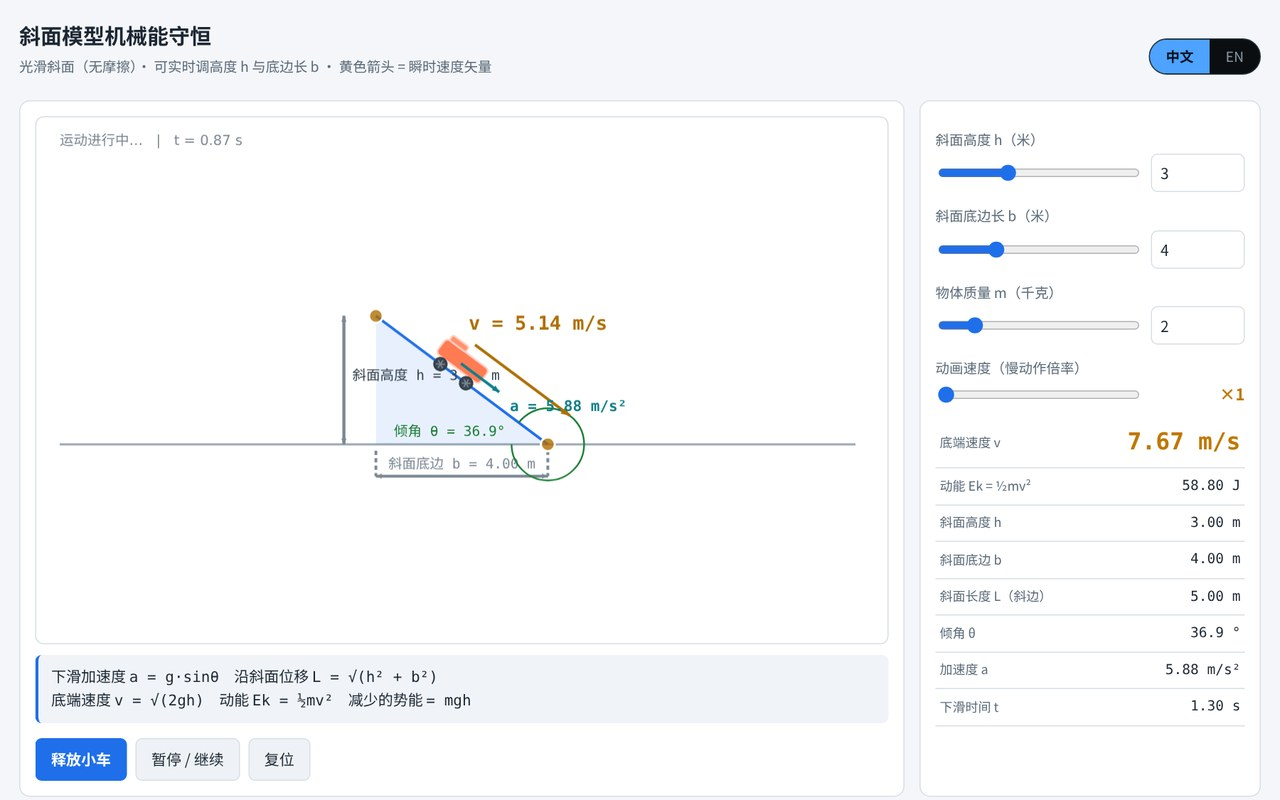
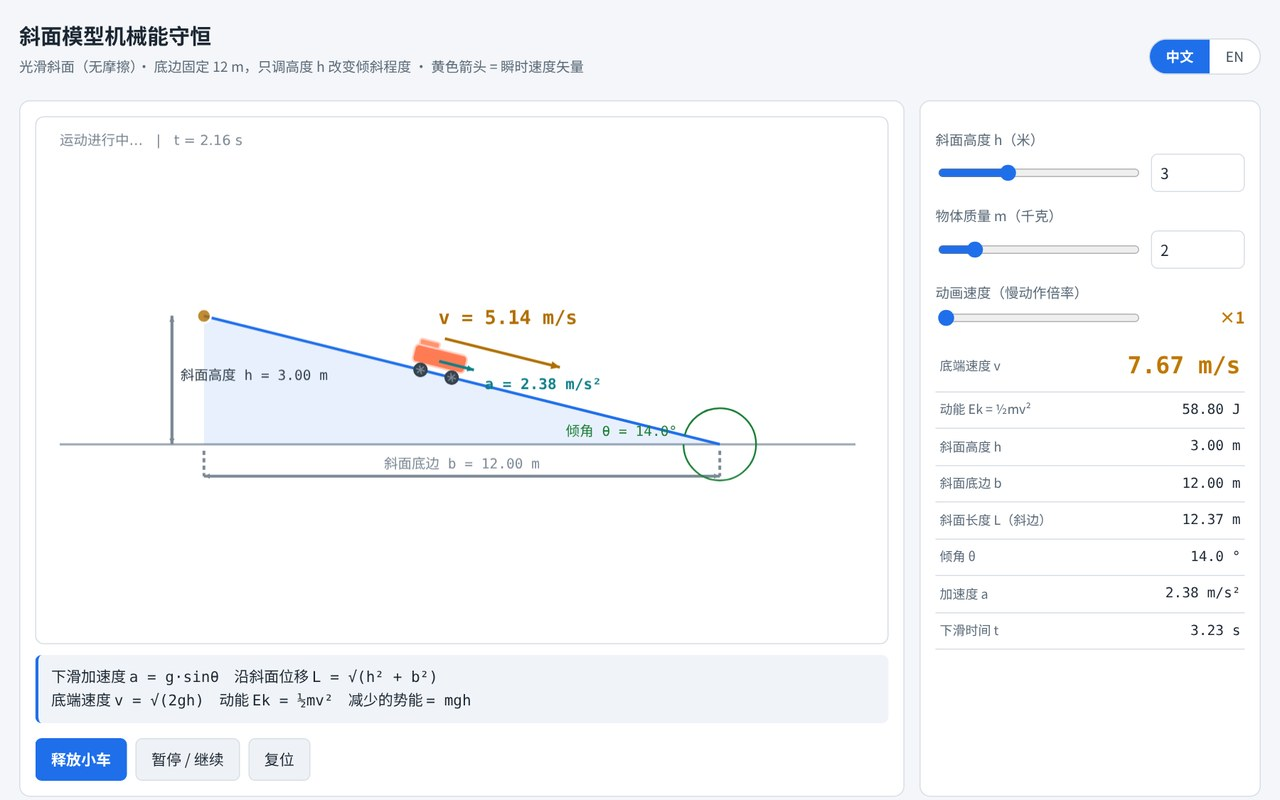
底边固定 12 m：移除 b 滑块/数字框与右下角拖拽手柄，只保留调高度 h
- B_FIXED=12；setHB(h) 单参；bind 去掉 bRange/bNum；syncHBInputs 只同步 h
- 画布右下角不再是手柄（hitHandle/handleSpots/绘制提示同步删除）
- PX_PER_M 按 12m(固定底)×10m(h上限) 定尺，画面依旧固定画幅、永不涨缩
- 副标题改为「底边固定 12 m，只调高度 h 改变倾斜程度」，site-lang.js 同步英文翻译并删除失效词条
- smoke 24/24：新增「右下角不再是手柄」「b 控件已移除」断言；双语审计正常；缩略图重生成

diff --git a/incline-energy.html b/incline-energy.html
@@ -66,7 +66,7 @@
   <div class="topbar">
     <div>
       <h1>斜面模型机械能守恒</h1>
-      <div class="sub">光滑斜面（无摩擦）· 可实时调高度 h 与底边长 b · 黄色箭头 = 瞬时速度矢量</div>
+      <div class="sub">光滑斜面（无摩擦）· 底边固定 12 m，只调高度 h 改变倾斜程度 · 黄色箭头 = 瞬时速度矢量</div>
     </div>
     <div class="lang">
       <button data-lang="zh">中文</button><button data-lang="en">EN</button>
@@ -91,12 +91,6 @@
       <div class="row">
         <input type="range" id="hRange" min="0.5" max="8" step="0.1" value="3">
         <input type="number" id="hNum" min="0.2" max="10" step="0.1" value="3">
-      </div>
-
-      <label>斜面底边长 b（米）</label>
-      <div class="row">
-        <input type="range" id="bRange" min="1" max="12" step="0.1" value="4">
-        <input type="number" id="bNum" min="0.5" max="15" step="0.1" value="4">
       </div>
 
       <label>物体质量 m（千克）</label>
@@ -173,14 +167,15 @@ const getLang = () => (window.SiteLang ? window.SiteLang.getLang() : 'zh');
    ============================================================ */
 const G = 9.8;
 
-const state = { h:3, b:4, m:2, s:0, v:0, running:false, done:false };
+const B_FIXED = 12;   // 底边固定 12 m：只调高度（研究倾斜程度对下滑的影响）
+const state = { h:3, b:B_FIXED, m:2, s:0, v:0, running:false, done:false };
 let slowFactor = 1;   // 慢动作倍率：1 / 5 / 10
 
 const cv = document.getElementById('cv');
 const ctx = cv.getContext('2d');
 let W = cv.width, H = cv.height;
 /* 固定画幅比例尺：只随画布尺寸变，绝不随 h/b 数值变（图形永不自动涨缩） */
-let PX_PER_M = Math.max(Math.min((W - 92) / 15, (H - 92) / 10), 1);   // 15m×10m=数字框最大三角形恰好放满画布
+let PX_PER_M = Math.max(Math.min((W - 92) / B_FIXED, (H - 92) / 10), 1);   // 12m(固定底)×10m(h上限) 恰好放满画布
 
 /* ---------- 几何：把物理量换算成画布坐标 ---------- */
 /* “取景框”（meter range）决定比例尺 pxPerM：框恒定 → 拖拽时画面不缩放不平移，
@@ -188,7 +183,7 @@ let PX_PER_M = Math.max(Math.min((W - 92) / 15, (H - 92) / 10), 1);   // 15m×10
    几何=固定画幅：pxPerM 只随画布尺寸变；三角形包围盒中心恒=画布中心。 */
 /* 取景框=固定画幅：pxPerM 只由画布大小决定，与 h/b 数值无关。
    → 任何操作（拖拽/滑块/数字框）都不会让图形“自动涨大占满屏幕”；
-     15 m 的底边永远画这么长，拖小车只改变高度。 */
+     底边固定 12 m 永远画这么长，拖小车只改变高度。 */
 function _geomWith(){
   const margin = 46;
   const pxPerM = PX_PER_M;
@@ -266,12 +261,12 @@ function derived(){
 
 /* ---------- 绘制 ---------- */
 /* 拖拽手柄位置（顶点=改高度 h，右下角=改底边 b），及悬停/拖动状态 */
-let hoverHandle = null;   // 'h' | 'b' | null
+let hoverHandle = null;   // 'h' | 'cart' | null
 let dragging  = null;
 
 function handleSpots(){
   const g = geom();
-  return { h:{ x:g.top.x, y:g.top.y }, b:{ x:g.br.x, y:g.br.y } };
+  return { h:{ x:g.top.x, y:g.top.y } };
 }
 /* 命中小车车身/轮子区域（矩形近似：以车中心为界 ±车长一半、±(车高+轮半径)） */
 function hitCart(mx,my){
@@ -288,11 +283,7 @@ function hitCart(mx,my){
 
 function hitHandle(mx,my){
   const hs = handleSpots();
-  const dh = Math.hypot(mx-hs.h.x, my-hs.h.y);
-  const db = Math.hypot(mx-hs.b.x, my-hs.b.y);
-  if(dh <= 16 && dh <= db) return 'h';
-  if(db <= 16) return 'b';
-  return null;
+  return (Math.hypot(mx-hs.h.x, my-hs.h.y) <= 16) ? 'h' : null;
 }
 
 function draw(){
@@ -399,9 +390,9 @@ function draw(){
     ctx.setLineDash([]); ctx.restore();
   }
 
-  // 拖拽手柄：顶点（改 h）与右下角（改 b）。悬停/拖动时放大、变色，提示可拖
+  // 拖拽手柄：只有顶点（改 h）。悬停/拖动时放大、变色，提示可拖
   const hs = handleSpots();
-  for(const key of ['h','b']){
+  for(const key of ['h']){
     const spt = hs[key];
     const on = (hoverHandle===key || dragging===key);
     ctx.beginPath(); ctx.arc(spt.x, spt.y, on?9:6.5, 0, Math.PI*2);
@@ -414,7 +405,6 @@ function draw(){
     ctx.fillStyle='#7c8894'; ctx.font='12px system-ui,sans-serif';
     ctx.textAlign='left';
     ctx.fillText(tr('拖动改高度'), hs.h.x+12, hs.h.y-12);   /* 顶点右上方：三角形外，空白 */
-    ctx.fillText(tr('拖动改底边'), hs.b.x+12, hs.b.y+4);
     ctx.textAlign='right';
     ctx.fillText(tr('抓小车上下拖也改高度'), hs.h.x-40, hs.h.y+34);
     ctx.textAlign='left';
@@ -548,10 +538,9 @@ function bind(rangeId, numId, key, min, max){
                                          : ('请输入 '+min+' ~ '+max+' 之间的数值'); return;
     }
     err.textContent='';
-    /* h/b 走统一通道（取景框联动钳位在 setHB 外再做一层）；m 直接写 */
-    if(key==='h' || key==='b'){
-      const other = (key==='h') ? state.b : state.h;
-      setHB(key==='h'?val:other, key==='h'?other:val);
+    /* h 走统一通道（钳位/同步在 setHB）；m 直接写 */
+    if(key==='h'){
+      setHB(val, state.b);
     } else {
       state[key]=val; r.value=val; n.value=val;
       reset(); buildTable(); draw(); readouts();
@@ -584,7 +573,6 @@ function syncSlowBtn(){
 document.getElementById('slowRange').oninput = slowFromSlider;
 
 bind('hRange','hNum','h',0.2,10);
-bind('bRange','bNum','b',0.5,15);
 bind('mRange','mNum','m',0.1,20);
 
 /* ---------- 画布直接交互 ----------
@@ -598,17 +586,15 @@ function canvasXY(e){
 /* h/b 的唯一写入口：先钳范围、写 state，再把滑块/数字框同步为显示值。
    （range 控件的 value 会被浏览器按 step 取整——那只是滑块的显示值，
      绝不能再读回来当真源；真源永远是 state） */
-function setHB(h, b){
-  h = Math.min(10, Math.max(0.2, +h)); b = Math.min(15, Math.max(0.5, +b));
-  state.h = +h.toFixed(3); state.b = +b.toFixed(3);
+function setHB(h){
+  h = Math.min(10, Math.max(0.2, +h));
+  state.h = +h.toFixed(3); state.b = B_FIXED;
   syncHBInputs();
   reset(); buildTable(); draw(); readouts();
 }
 function syncHBInputs(){
   const hr=document.getElementById('hRange'), hn=document.getElementById('hNum');
-  const brg=document.getElementById('bRange'), bn=document.getElementById('bNum');
   hr.value=state.h; hn.value=state.h;
-  brg.value=state.b; bn.value=state.b;
 }
 function hitAny(mx,my){
   /* 小车在坡顶时常压住顶点黄点：优先判小车，保证「抓车」手感一致 */
@@ -618,19 +604,17 @@ function hitAny(mx,my){
 
 cv.addEventListener('pointermove', (e)=>{
   const {x,y} = canvasXY(e);
+  void x;   // h 拖拽只用到竖直位移
   if(dragging){
     /* 固定画幅 + 按下瞬间的“车中心锚点”：拖到哪，车中心就跟到哪。
        高度变化与手指位移严格成比例（1:1 跟手），底边长度全程不变 */
-    const g = geom(), dx = x - dragBase.x, dy = y - dragBase.y;
+    const g = geom(), dy = y - dragBase.y;
     if(dragging==='h' || dragging==='cart'){
       /* 抓车/抓顶点上下拽：高度变化与手指竖直位移严格成比例——
          坡高 h（米）= 按下值 h0 − dy(像素)/pxPerM。
          画幅固定、pxPerM 恒定 → “拖到哪，高度就是哪”，绝无放大效应；
          斜面越平时拖同样距离高度变化也一样直观（按米读数，不再跳变）。 */
-      setHB(Math.min(dragBase.h0, dragBase.h0 - dy/g.pxPerM), state.b);
-    } else {
-      /* 右下角左右拖：改底边 b，h 不变，1:1 跟手 */
-      setHB(state.h, dragBase.b0 + dx/g.pxPerM);
+      setHB(Math.min(dragBase.h0, dragBase.h0 - dy/g.pxPerM));
     }
     return;
   }
@@ -644,7 +628,7 @@ cv.addEventListener('pointerdown', (e)=>{
   const hit = hitAny(x,y);                  // 抓小车/顶点手柄 = 上下拽改高度
   if(hit){
     dragging = hit;
-    dragBase = { x, y, h0:state.h, b0:state.b };   // 按下瞬间的锚点与起始尺寸
+    dragBase = { x, y, h0:state.h };              // 按下瞬间的锚点与起始高度
     cv.setPointerCapture(e.pointerId); cv.style.cursor='grabbing'; draw();
   }
 });

diff --git a/site-lang.js b/site-lang.js
@@ -89,10 +89,9 @@
        EN 下由 CSS 显示，内容就是字面「· Physics Lab」，无需词条 */
 
     /* ===== 模拟器：控件与读数 ===== */
-    '光滑斜面（无摩擦）· 可实时调高度 h 与底边长 b · 黄色箭头 = 瞬时速度矢量':
-      'Frictionless incline · adjust height h and base b live · yellow arrow = instantaneous velocity',
+    '光滑斜面（无摩擦）· 底边固定 12 m，只调高度 h 改变倾斜程度 · 黄色箭头 = 瞬时速度矢量':
+      'Frictionless incline · base fixed at 12 m, adjust height h to change the slope · yellow arrow = instantaneous velocity',
     '斜面高度 h（米）': 'Incline height h (m)',
-    '斜面底边长 b（米）': 'Incline base b (m)',
     '物体质量 m（千克）': 'Mass m (kg)',
     '释放小车': 'Release cart',
     '暂停 / 继续': 'Pause / Resume',
@@ -133,7 +132,6 @@
     '动画速度（慢动作倍率）': 'Animation speed (slow-motion factor)',
     '动画放慢，物理数值不变': 'Animation slowed; physics values unchanged',
     '拖动改高度': 'drag to change height',
-    '拖动改底边': 'drag to change base',
     '抓小车上下拖也改高度': 'grab the cart to drag height',
 
     /* ===== 模拟器：画布文字（Canvas 扫不到，页面用 tr() 取词）===== */

diff --git a/tools/smoke_interact.py b/tools/smoke_interact.py
@@ -45,7 +45,7 @@ def main():
 
         # ---- 1. 初始状态：小车在顶端、静止 ----
         s0 = ev("JSON.stringify({h:state.h,b:state.b,s:state.s,v:state.v,run:state.running})")
-        check('初始 h=3 b=4 静止', s0 and '"h":3' in s0 and '"s":0' in s0 and '"run":false' in s0, s0)
+        check('初始 h=3 b=12(固定) 静止', s0 and '"h":3' in s0 and '"b":12' in s0 and '"s":0' in s0 and '"run":false' in s0, s0)
 
         # ---- 2. 悬停到顶点手柄：cursor 变 grab，hoverHandle='h' ----
         pos = ev("JSON.stringify((function(){const g=geom();return {x:g.top.x,y:g.top.y,cx:cv.getBoundingClientRect().left,cy:cv.getBoundingClientRect().top,sc:cv.getBoundingClientRect().width/W}})())")
@@ -72,28 +72,18 @@ def main():
         check('向下拽 h 变小（底边不变）', h_after < h_before, '%s -> %s' % (h_before, h_after))
         check('数字框与滑块联动', abs(float(hnum) - h_after) < 0.05, hnum)
 
-        # ---- 4. 悬停右下角手柄并右拖：b 变大（先复位，前面拖拽已把 h/b 拉偏）----
-        ws.ev("setHB(3,4)")
-        time.sleep(0.2)
+        # ---- 4. 底边固定 12 m：右下角不再是手柄，悬停无 hoverHandle=b；也不存在 bRange/bNum 控件 ----
         pos2 = ev("JSON.stringify((function(){const g=geom();return {x:g.br.x,y:g.br.y,cx:cv.getBoundingClientRect().left,cy:cv.getBoundingClientRect().top,sc:cv.getBoundingClientRect().width/W}})())")
         P2 = json.loads(pos2)
-        bx, by = P2['cx'] + P2['x']*P2['sc'], P2['cy'] + P2['y']*P2['sc'] - 3   # 手柄中心附近（文字在其右侧）
+        bx, by = P2['cx'] + P2['x']*P2['sc'], P2['cy'] + P2['y']*P2['sc'] - 3
         cdp_mouse(ws, "mouseMoved", bx, by)
         time.sleep(0.3)
-        check('悬停右下角 hoverHandle=b', ev("hoverHandle") == 'b', ev("hoverHandle"))
-        b_before = float(ev("state.b"))
-        cdp_mouse(ws, "mousePressed", bx, by, button="left", click_count=1)
-        for i in range(1, 7):
-            cdp_mouse(ws, "mouseMoved", bx + i*20, by, button="left")
-            time.sleep(0.05)
-        cdp_mouse(ws, "mouseReleased", bx + 120, by, button="left")
-        time.sleep(0.4)
-        b_after = float(ev("state.b"))
-        check('向右拖 b 变大', b_after > b_before, '%s -> %s' % (b_before, b_after))
-
+        check('右下角不再是拖拽手柄', ev("hoverHandle") != 'b', ev("hoverHandle"))
+        check('b 滑块/数字框已移除', ev("!document.getElementById('bRange') && !document.getElementById('bNum')") is True,
+              ev("[!!document.getElementById('bRange'), !!document.getElementById('bNum')]"))
         # ---- 4b. 悬停小车本体：变小手，抓着上下拽同样改 h（往下拽 h 变小）----
         # 先把 h/b 复位到默认值再测抓车（前面拖拽已把 h 拉到极值、车贴住顶点手柄）
-        ws.ev("setHB(3,4)")
+        ws.ev("setHB(3)")
         cp = ev("JSON.stringify((function(){const p=cartPos(state.s),r=cv.getBoundingClientRect();return {x:p.x,y:p.y,cx:r.left,cy:r.top,sc:r.width/W}})())")
         CP = json.loads(cp)
         ccx, ccy = CP['cx']+CP['x']*CP['sc'], CP['cy']+CP['y']*CP['sc']
@@ -115,7 +105,7 @@ def main():
         check('三角形中心≈画布中心', abs(C['cx']-C['W']/2)<2 and abs(C['cy']-C['H']/2)<2, (round(C['cx']),round(C['W']/2),round(C['cy']),round(C['H']/2)))
 
         # ---- 4e. 拖 h 时底边绝不变长/平移：br.x 与 groundY 恒定；且跟手比例≈1:1 ----
-        ws.ev("setHB(3,4)")
+        ws.ev("setHB(3)")
         g_before = json.loads(ev("JSON.stringify((function(){const g=geom();return {x:g.br.x,y:g.groundY,p:g.pxPerM}})())"))
         hp = ev("""JSON.stringify((function(){const p=cartPos(0),d=derived(),r=cv.getBoundingClientRect();
           const bw=Math.min(30+Math.cbrt(state.m)*16,78);   // 车身下缘贴斜面处（与 pointerdown 锚点一致）
